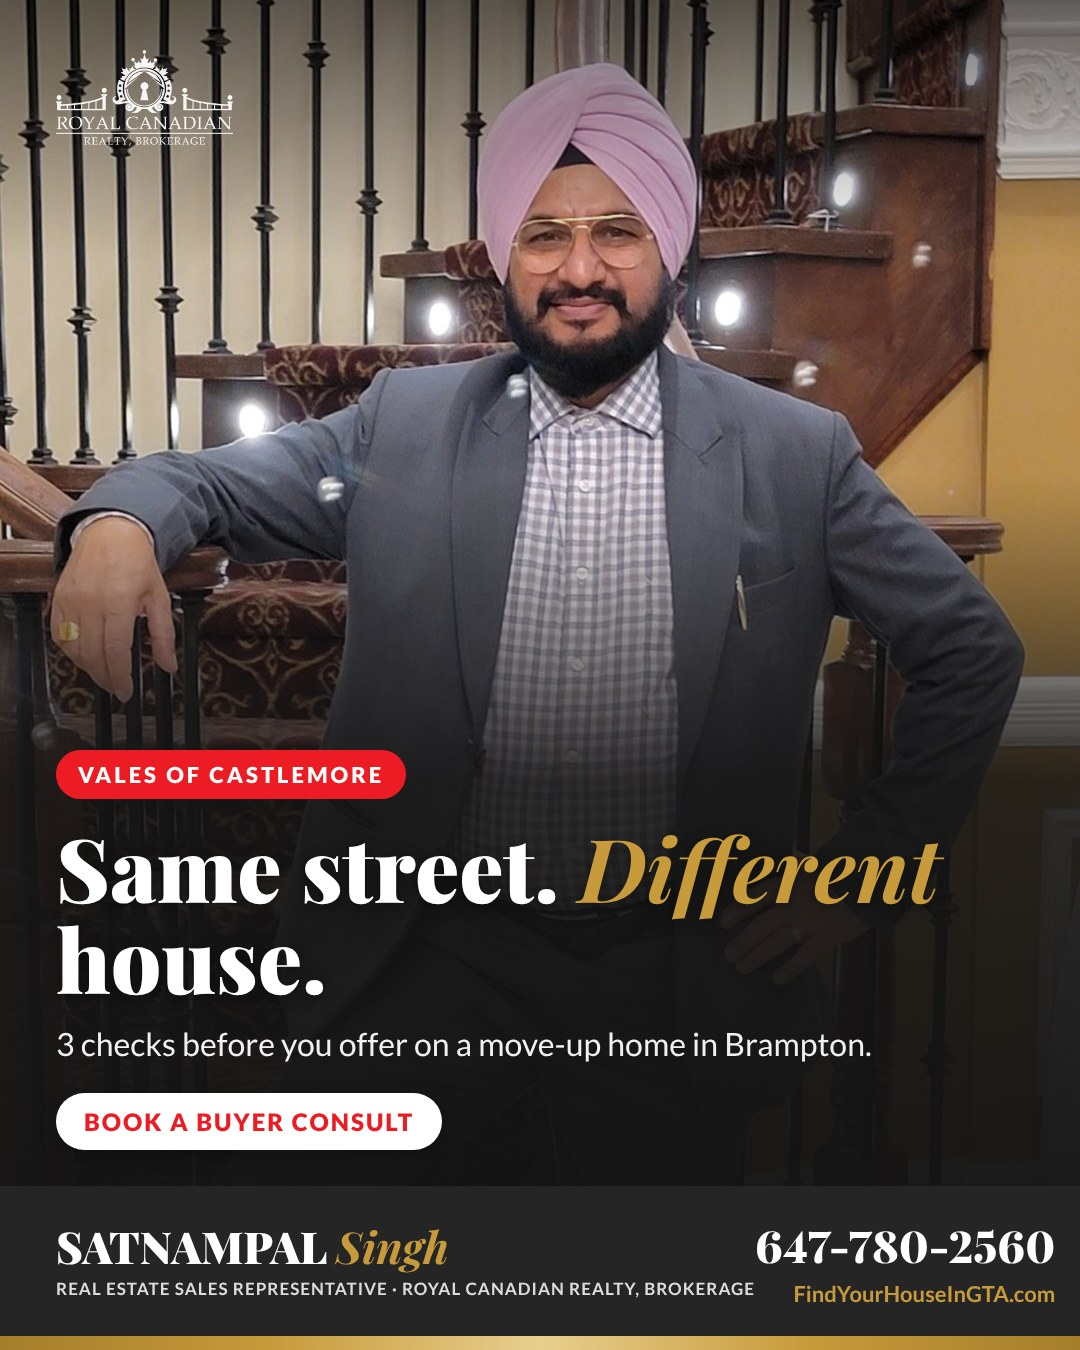
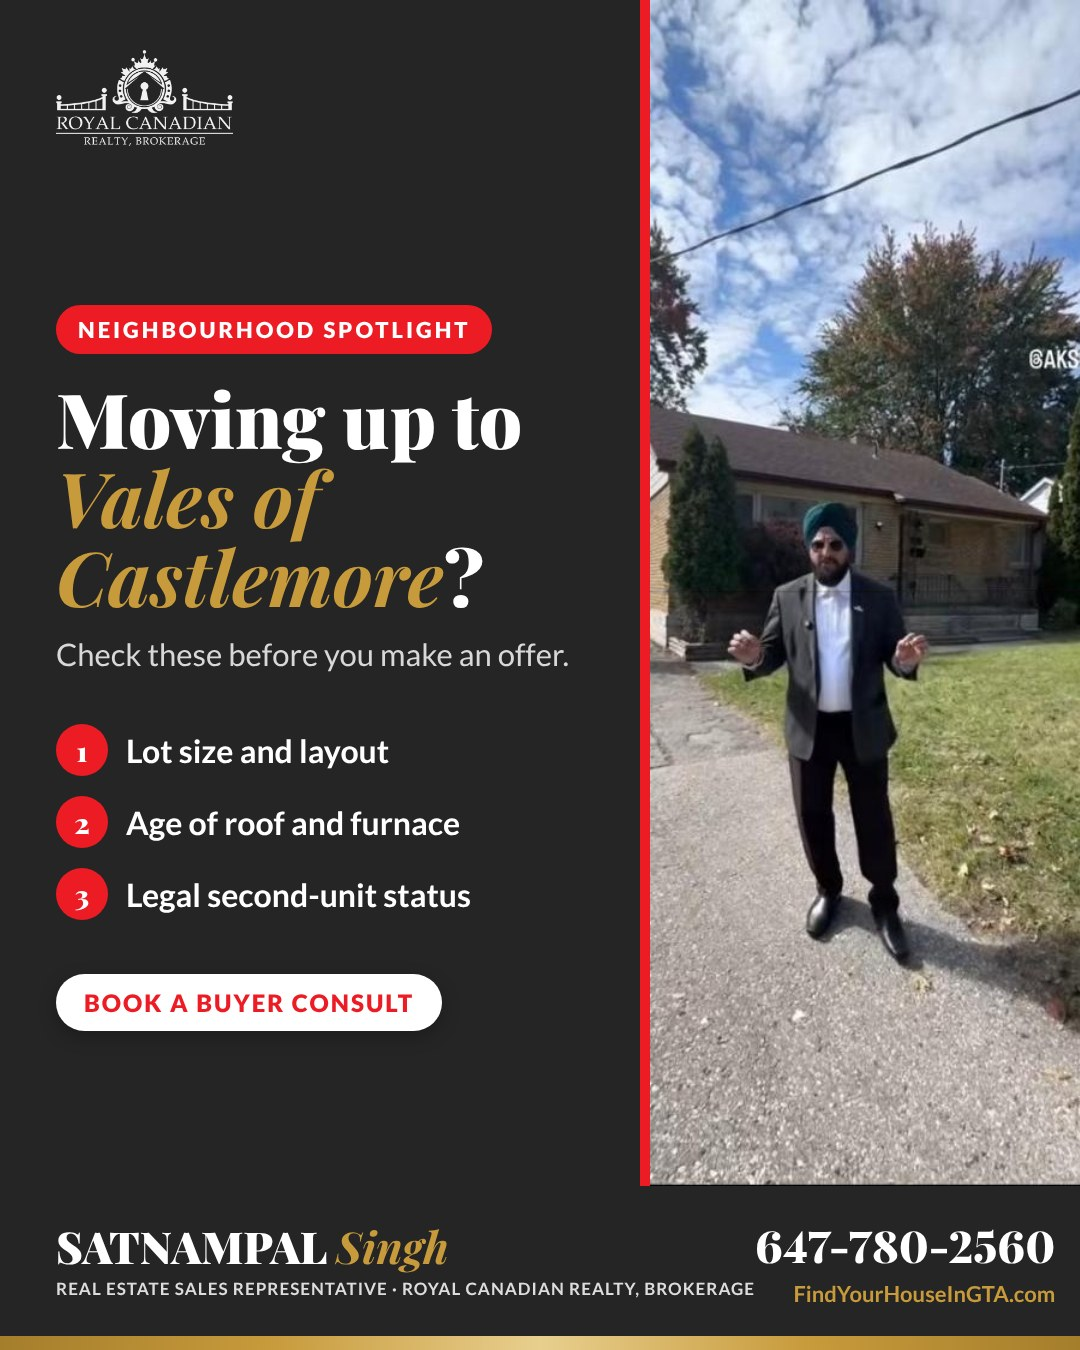
2026-11-06: final image = split layout with listing-facing.jpg

diff --git a/posts/log.md b/posts/log.md
@@ -6,4 +6,4 @@ One line per post: date | theme | headline | GBP/FB/IG/TikTok status
 2026-11-03 | Brampton neighbourhood spotlight (Sandringham-Wellington) | Starter home in Sandringham? | https://www.findyourhouseingta.com/ | scheduled 12:00 (run started 11:49, after the 10:00 slot)
 2026-11-04 | GTA market update (TRREB October 2026) | Buyers have the edge (stats layout) | https://www.findyourhouseingta.com/blog.php | scheduled 10:00
 2026-11-05 | Mortgage education (Ontario land transfer tax + first-time buyer refund) | first-time buyers | The closing cost buyers forget | https://satnampalsingh-social-images.github.io/Social-Images/blog/ | layout:infographic (swapped from classic at 09:10 on request) | photo:luxury-home.jpg | feed + IG/FB story scheduled 10:00
-2026-11-06 | Neighbourhood Spotlight | move-up buyers / growing families | Same street. Different house. (Vales of Castlemore) | https://www.findyourhouseingta.com/blog.php | layout:photo (swapped from split at 08:55 on request) | photo:staircase-pose.jpg (changed from autumn-suit-full.jpg on request) | area:Vales of Castlemore | feed + IG/FB story scheduled 10:00 - ALL FAILED at 10:00 and again at 11:30: Metricool "You have reached your Metricool account limit."
+2026-11-06 | Neighbourhood Spotlight | move-up buyers / growing families | Moving up to Vales of Castlemore? | https://www.findyourhouseingta.com/blog.php | layout:split (final, chosen by Satnampal after trying photo layout) | photo:listing-facing.jpg | area:Vales of Castlemore | feed + IG/FB story scheduled 10:00 - ALL FAILED at 10:00 and again at 11:30: Metricool "You have reached your Metricool account limit."
